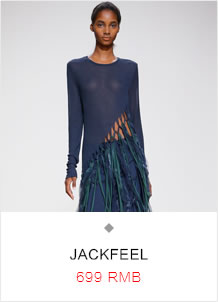
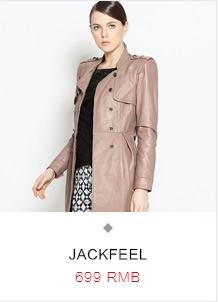
modified pics according to new  design

diff --git a/public/views/home.html b/public/views/home.html
@@ -57,7 +57,8 @@
                                 <a href="/detail/23"><img src="/images/u1-01.jpg" alt=""></a>
                             </div>
                             <div class="col-xs-6">
-                                <a href="/detail/24"><img src="/images/u1-02.jpg" alt=""><a>
+                                <a href="/detail/24"><img src="/images/u1-02.jpg" alt="">
+                                    <a>
                             </div>
                         </div>
                         <div class="row">
@@ -65,7 +66,7 @@
                                 <a href="/detail/25"><img src="/images/u1-03.jpg" alt=""></a>
                             </div>
                             <div class="col-xs-6">
-                                 <a href="/detail/26"><img src="/images/u1-04.jpg" alt=""></a>
+                                <a href="/detail/26"><img src="/images/u1-04.jpg" alt=""></a>
                             </div>
                         </div>
                     </div>
@@ -76,79 +77,9 @@
             </div>
         </div>
 
-        <div class="row page-home-u2">
-            <div class="col-xs-12">
-                <div class="row page-home-u2-title">
-                    <div class="col-xs-12 ">
-                        <img class="page-home-u2-title-text" src="/images/u2-title.png" alt="ui-title">
-                        <img class="page-home-u1-title-splitter" src="/images/u1-splitter.png" alt="ui-title">
-                    </div>
-                </div>
-                <div class="row page-home-u2-content">
-                    <div class="col-xs-12">
-                        <div class="row">
-                            <div class="col-xs-3">
-                                <a href="/detail/28"><img class="page-home-u2-item" src="/images/u2-01.jpg" alt=""></a>
-                            </div>
-                            <div class="col-xs-3">
-                                <a href="/detail/29"><img class="page-home-u2-item" src="/images/u2-02.jpg" alt=""></a>
-                            </div>
-                            <div class="col-xs-3">
-                                <a href="/detail/30"><img class="page-home-u2-item" src="/images/u2-03.jpg" alt=""></a>
-                            </div>
-                            <div class="col-xs-3">
-                                <a href="/detail/31"><img class="page-home-u2-item" src="/images/u2-04.jpg" alt=""></a>
-                            </div>
-                        </div>
-                        <div class="row">
-                            <div class="col-xs-3">
-                                <a href="/detail/28"><img class="page-home-u2-item" src="/images/u2-01.jpg" alt=""></a>
-                            </div>
-                            <div class="col-xs-3">
-                                <a href="/detail/29"><img class="page-home-u2-item" src="/images/u2-02.jpg" alt=""></a>
-                            </div>
-                            <div class="col-xs-3">
-                                <a href="/detail/30"><img class="page-home-u2-item" src="/images/u2-03.jpg" alt=""></a>
-                            </div>
-                            <div class="col-xs-3">
-                                <a href="/detail/31"><img class="page-home-u2-item" src="/images/u2-04.jpg" alt=""></a>
-                            </div>
-                        </div>
-                    </div>
-                </div>
-            </div>
-        </div>
+    </div>
 
-        <div class="row page-home-u3">
-            <div class="col-xs-12">
-                <div class="row page-home-u3-title">
-                    <div class="col-xs-12 ">
-                        <img class="page-home-u3-title-text" src="/images/u3-title.png" alt="ui-title">
-                        <img class="page-home-u1-title-splitter" src="/images/u1-splitter.png" alt="ui-title">
-                    </div>
-                </div>
-                <div class="row page-home-u3-content">
-                    <div class="col-xs-4">
-                        <div class="row">
-                            <div class="col-xs-11">
-                                <a href="/designer"><img src="/images/u3-profile.jpg" alt=""></a>
-                                <img src="/images/u3-profile-info.jpg" alt="">
-                            </div>
-                        </div>
-                    </div>
-                    <div class="col-xs-4">
-                        <a href="/detail/32"><img src="/images/u3-01.jpg" alt=""></a>
-                        <a href="/detail/33"><img src="/images/u3-02.jpg" alt=""></a>
-                    </div>
-                    <div class="col-xs-4">
-                        <a href="/detail/34"><img src="/images/u3-03.jpg" alt=""></a>
-                        <a href="/detail/35"><img src="/images/u3-04.jpg" alt=""></a>
-                        <a href="/detail/36"><img src="/images/u3-05.jpg" alt=""></a>
-                    </div>
-                </div>
-            </div>
-        </div>
-
+    <div class="container-fluid">
         <div class="row page-home-f1">
             <div class="col-xs-12">
                 <div class="row page-home-f1-title">
@@ -195,7 +126,35 @@
                 </div>
             </div>
         </div>
+    </div>
 
+    <div class="container-fluid">
+        <div class="row page-home-u2">
+            <div class="col-xs-12">
+                <div class="row page-home-u2-title">
+                    <div class="col-xs-12 ">
+                        <img class="page-home-u2-title-text" src="/images/u2-title.png" alt="ui-title">
+                        <img class="page-home-u1-title-splitter" src="/images/u1-splitter.png" alt="ui-title">
+                    </div>
+                </div>
+                <div class="row page-home-u2-content">
+                    <div class="col-xs-4">
+                        <a href="/detail/28"><img class="page-home-u2-item" src="/images/u2-01.jpg" alt=""></a>
+                    </div>
+                    <div class="col-xs-4">
+                        <img class="page-home-u2-item" src="/images/u2-02.jpg" alt="">
+                        <a href="/detail/30"><img class="page-home-u2-item" src="/images/u2-03.jpg" alt=""></a>
+                    </div>
+                    <div class="col-xs-4">
+                        <a href="/detail/31"><img class="page-home-u2-item" src="/images/u2-04.jpg" alt=""></a>
+                        <img class="page-home-u2-item" src="/images/u2-05.jpg" alt="">
+                    </div>
+                </div>
+            </div>
+        </div>
+    </div>
+
+    <div class="container-fluid">
         <div class="row page-home-f1">
             <div class="col-xs-12">
                 <div class="row page-home-f1-title">
@@ -242,7 +201,37 @@
                 </div>
             </div>
         </div>
+    </div>
 
+    <div class="container-fluid">
+        <div class="row page-home-u4">
+            <div class="col-xs-12">
+                <div class="row page-home-u4-title">
+                    <div class="col-xs-12 ">
+                        <img class="page-home-u4-title-text" src="/images/u3-title.png" alt="ui-title">
+                        <img class="page-home-u1-title-splitter" src="/images/u1-splitter.png" alt="ui-title">
+                    </div>
+                </div>
+                <div class="row page-home-u4-content">
+                    <div class="col-xs-4">
+                        <a href="/detail/52"><img src="/images/u4-01.jpg" alt=""></a>
+                        <img src="/images/u4-02.jpg" alt="">
+                        <a href="/detail/53"><img src="/images/u4-03.jpg" alt=""></a>
+                    </div>
+                    <div class="col-xs-4">
+                        <img src="/images/u4-04.jpg" alt="">
+                        <a href="/detail/54"><img src="/images/u4-05.jpg" alt=""></a>
+                        <img src="/images/u4-06.jpg" alt="">
+                    </div>
+                    <div class="col-xs-4">
+                        <a href="/detail/55"><img src="/images/u4-07.jpg" alt=""></a>
+                    </div>
+                </div>
+            </div>
+        </div>
+    </div>
+
+    <div class="container-fluid">
         <div class="row page-home-f1">
             <div class="col-xs-12">
                 <div class="row page-home-f1-title">
@@ -290,7 +279,41 @@
             </div>
         </div>
     </div>
+
+    <div class="container-fluid">
+        <div class="row page-home-u3">
+            <div class="col-xs-12">
+                <div class="row page-home-u3-title">
+                    <div class="col-xs-12 ">
+                        <img class="page-home-u3-title-text" src="/images/exdesigner-title.png" alt="ui-title">
+                        <img class="page-home-u1-title-splitter" src="/images/u1-splitter.png" alt="ui-title">
+                    </div>
+                </div>
+                <div class="row page-home-u3-content">
+                    <div class="col-xs-4">
+                        <div class="row">
+                            <div class="col-xs-11">
+                                <a href="/designer"><img src="/images/u3-profile.jpg" alt=""></a>
+                                <img src="/images/u3-profile-info.jpg" alt="">
+                            </div>
+                        </div>
+                    </div>
+                    <div class="col-xs-4">
+                        <a href="/detail/32"><img src="/images/u3-01.jpg" alt=""></a>
+                        <a href="/detail/33"><img src="/images/u3-02.jpg" alt=""></a>
+                    </div>
+                    <div class="col-xs-4">
+                        <a href="/detail/34"><img src="/images/u3-03.jpg" alt=""></a>
+                        <a href="/detail/35"><img src="/images/u3-04.jpg" alt=""></a>
+                        <a href="/detail/36"><img src="/images/u3-05.jpg" alt=""></a>
+                    </div>
+                </div>
+            </div>
+        </div>
+    </div>
+
 </div>
+
 
 
 

diff --git a/public/styles/page-home.scss b/public/styles/page-home.scss
@@ -3,29 +3,35 @@
   width: 100%;
 }
 
-#page-home .carousel-caption {
+.carousel-caption {
     color: purple;
     font-size: 3em;
     font-weight: 700;
 }
 
 
+#page-home .container-fluid:nth-child(odd) {
+    background: #fafafa;
+}
+
 .page-home-u1,
 .page-home-u2,
-.page-home-u3{
+.page-home-u3,
+.page-home-u4{
     text-align: center;
-    margin: 2em 0;
+    margin: 3em 0;
 }
 
 .page-home-f1,
 .page-home-f2,
 .page-home-f3,{
-    margin: 2em 0;
+    margin: 3em 0;
 }
 
 .page-home-u1-title-text,
 .page-home-u2-title-text,
 .page-home-u3-title-text,
+.page-home-u4-title-text,
 .page-home-f1-title-text{
     height: 2.5em;
 }
@@ -54,14 +60,13 @@
 
 
 .page-home-u2-content .row{
-    margin-left: -.1em;
-    margin-right: -.1em;
+    margin-left:0;
+    margin-right: 0;
 }
 
-.page-home-u2-content .col-xs-12,
-.page-home-u2-content .col-xs-3,{
-    padding-left: .1em;
-    padding-right: .1em;
+.page-home-u2-content .col-xs-4,{
+    padding-left: 0;
+    padding-right: 0;
 }
 
 .page-home-u2-item{
@@ -83,6 +88,20 @@
     width: 100%;
 }
 
+.page-home-u4-content .row{
+    margin-left: 0;
+    margin-right: 0;
+}
+
+.page-home-u4-content .col-xs-12,
+.page-home-u4-content .col-xs-4,{
+    padding-left: 0;
+    padding-right: 0;
+}
+
+.page-home-u4-content img{
+    width: 100%;
+}
 
 .page-home-f1-content .row{
     margin-left: -.1em;

diff --git a/database/data.js b/database/data.js
@@ -253,6 +253,26 @@ var db = [
         id: 51,
         type: 'f3',
         url: '/images/f3-08.jpg'
+    },
+    {
+        id: 52,
+        type: 'u4',
+        url: '/images/u4-01.jpg'
+    },
+    {
+        id: 53,
+        type: 'u4',
+        url: '/images/u4-03.jpg'
+    },
+    {
+        id: 54,
+        type: 'u4',
+        url: '/images/u4-05.jpg'
+    },
+    {
+        id: 55,
+        type: 'u4',
+        url: '/images/u4-07.jpg'
     }
 ];
 

diff --git a/public/index.html b/public/index.html
@@ -16,7 +16,7 @@
     <title>Uniquers</title>
     <link href="favicon.ico" rel="shortcut icon" type="image/x-icon" />
     <link rel="apple-touch-icon" href="./images/icon-114.jpg" />
-    <link rel="stylesheet" href="/dist/min-949012892e.css">
+    <link rel="stylesheet" href="/dist/min-e96b70a495.css">
 </head>
 
 <body ng-app="uniquers.app">

diff --git a/server.js b/server.js
@@ -28,7 +28,7 @@ server.use(cookieParser());
 server.use(express.static(path.join(__dirname, 'public')));
 
 
-/// catch 404 and forward to error handler
+/// catch 404 and forward to error handlersad
 server.use(function (req, res, next) {
     var err = new Error('Not Found');
     err.status = 404;
